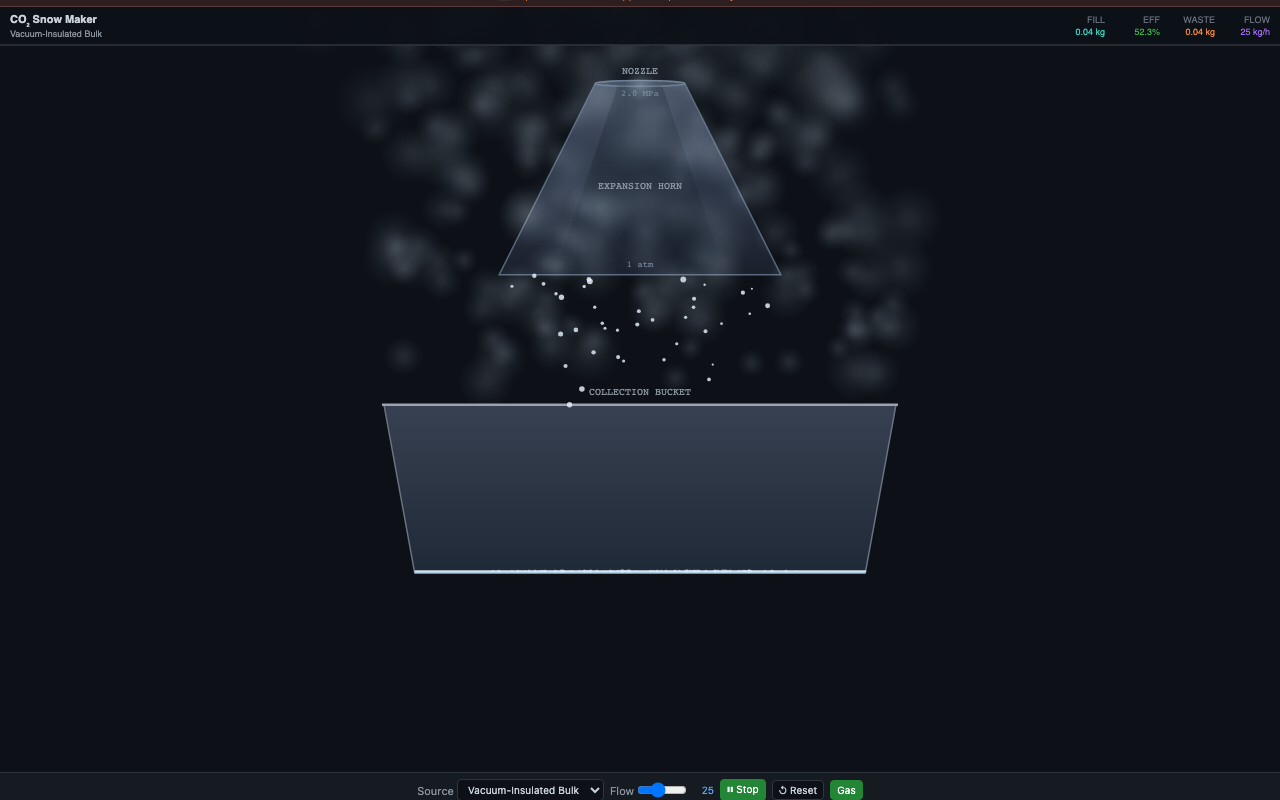
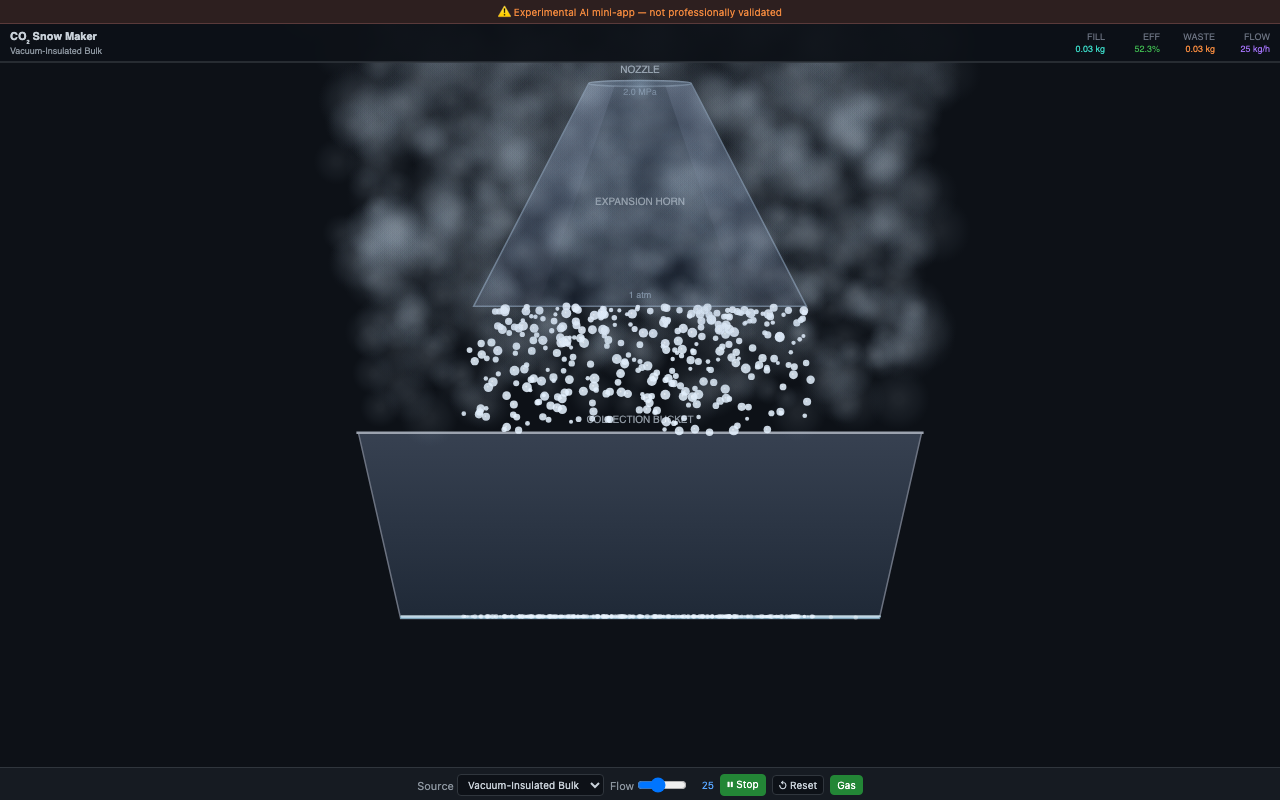
CO2 Snow Maker v3.0 — sharp text, visible controls, working gas plume, continuous snow, working reset/start

Changed region(s): [[0.0, 0.0, 1.0, 0.7812], [0.3125, 0.9375, 0.6875, 1.0]]

diff --git a/app-gallery/apps/2026-05-02-co2-snow-maker/index.html b/app-gallery/apps/2026-05-02-co2-snow-maker/index.html
@@ -8,7 +8,7 @@
 *{box-sizing:border-box;margin:0;padding:0}
 html,body{width:100%;height:100%;overflow:hidden;background:#0d1117;color:#c9d1d9;font-family:-apple-system,BlinkMacSystemFont,'Segoe UI',Roboto,sans-serif;font-size:13px}
 #warn{background:#2d1f1f;border-bottom:1px solid #5a3a3a;padding:3px 8px;font-size:10px;color:#f0883e;text-align:center;flex-shrink:0}
-#app{display:flex;flex-direction:column;height:100vh}
+#app{display:flex;flex-direction:column;height:calc(100vh - 22px)}
 #canvas-wrap{flex:1;position:relative;min-height:0;overflow:hidden}
 canvas{display:block;width:100%;height:100%}
 #controls{flex-shrink:0;background:#161b22;border-top:1px solid #30363d;padding:6px 8px;display:flex;gap:6px;align-items:center;flex-wrap:wrap;justify-content:center;font-size:11px}
@@ -70,11 +70,12 @@ let snowP=[], gasP=[];
 
 function resize(){
   const r=canvas.getBoundingClientRect();
-  W=canvas.width=r.width;
-  H=canvas.height=r.height;
+  const dpr=window.devicePixelRatio||1;
+  W=canvas.width=r.width*dpr;
+  H=canvas.height=r.height*dpr;
+  ctx.setTransform(dpr,0,0,dpr,0,0);
 }
 
-  // Spawn snow from the BOTTOM EDGE of the horn
 function spawnSnow(){
   const cx=W/2, hb=H*.38;
   const nb=W*.13;
@@ -90,12 +91,12 @@ function spawnSnow(){
   });
 }
 
-// Spawn gas from the ENTIRE gap between horn bottom and bucket rim
 function spawnGas(){
-  if(!showGas)return;
+  if(!showGas) return;
   const cx=W/2, hb=H*.38;
   const gapTop=hb;
   const gapBot=H*.55;
+  const gapH=gapBot-gapTop;
   const bw=W*.44;
   for(let k=0;k<4;k++){
     gasP.push({
@@ -110,20 +111,18 @@ function spawnGas(){
 }
 
 function update(dt){
-  if(!running)return;
+  if(!running) return;
   const f=flow/3600;
   buckKg+=f*sc.eff*dt;
   wasteKg+=f*(1-sc.eff)*dt;
   t+=dt;
 
-  // Continuous spawn — MUCH higher rate
   const snowRate=flow*2.5;
   for(let i=0;i<3;i++){
     if(Math.random()<snowRate*dt) spawnSnow();
   }
   if(Math.random()<snowRate*0.8*dt) spawnGas();
 
-  // Bucket geometry
   const cx=W/2;
   const bw=W*.44;
   const bx=cx-bw/2;
@@ -132,7 +131,6 @@ function update(dt){
   const bB=by+bh;
   const wallSlope=(bw*.075)/bh;
 
-  // Snow physics
   for(let p of snowP){
     if(p.settled) continue;
 
@@ -140,21 +138,17 @@ function update(dt){
     p.y+=p.vy*dt;
     p.vy+=40*dt;
 
-    // Current bucket width at this Y
     const dy=Math.max(0,p.y-by);
     const innerL=bx+dy*wallSlope;
     const innerR=bx+bw-dy*wallSlope;
 
     if(p.y>=by && p.x>innerL && p.x<innerR){
-      // Inside bucket
       if(!p.inB){
         p.inB=true;
         p.vx*=0.05;
         p.vy*=0.02;
       }
       if(p.y>=bB-3){
-        // Hit bottom — settle with random offset within bucket width at bottom
-        const bottomW=bw*(1-0.06*2); // width at bottom after taper
         p.y=bB-2;
         p.vy=0; p.vx=0;
         p.settled=true;
@@ -166,14 +160,12 @@ function update(dt){
     if(!p.inB && !p.settled) p.life-=dt*.02;
   }
 
-  // Keep settled, remove dead
   snowP=snowP.filter(p=>p.life>0||p.settled);
   const settled=snowP.filter(p=>p.settled);
   if(settled.length>300){
     snowP=snowP.filter(p=>!p.settled).concat(settled.slice(-300));
   }
 
-  // Gas physics
   for(let p of gasP){
     p.y+=p.vy*dt;
     p.x+=p.vx*dt+Math.sin(p.ph+t*3)*10*dt;
@@ -184,18 +176,20 @@ function update(dt){
 }
 
 function draw(){
-  ctx.fillStyle='#0d1117';
-  ctx.fillRect(0,0,W,H);
+  const cssW=canvas.width/(window.devicePixelRatio||1);
+  const cssH=canvas.height/(window.devicePixelRatio||1);
 
-  const cx=W/2;
+  ctx.fillStyle='#0d1117';
+  ctx.fillRect(0,0,cssW,cssH);
+
+  const cx=cssW/2;
 
   // ── HORN ──
-  const nt=W*.04;  // top half-width
-  const nb=W*.13;  // bottom half-width
-  const hy=H*.08;  // top Y
-  const hb=H*.38;  // bottom Y
+  const nt=cssW*.04;
+  const nb=cssW*.13;
+  const hy=cssH*.08;
+  const hb=cssH*.38;
 
-  // Horn body
   const hGrad=ctx.createLinearGradient(cx,hy,cx,hb);
   hGrad.addColorStop(0,'#4a5568');
   hGrad.addColorStop(.5,'#2d3748');
@@ -207,38 +201,35 @@ function draw(){
   ctx.fillStyle=hGrad; ctx.fill();
   ctx.strokeStyle='#5a6a7e'; ctx.lineWidth=1.5; ctx.stroke();
 
-  // Horn top
   ctx.beginPath();
   ctx.ellipse(cx,hy,nt,3,0,0,Math.PI*2);
   ctx.fillStyle='#3d4a5c'; ctx.fill();
   ctx.strokeStyle='#6a7a8e'; ctx.stroke();
 
-  // Inner shadow
   ctx.beginPath();
   ctx.moveTo(cx-nt*.5,hy+3); ctx.lineTo(cx-nb*.6,hb-3);
   ctx.lineTo(cx+nb*.6,hb-3); ctx.lineTo(cx+nt*.5,hy+3);
   ctx.closePath();
   ctx.fillStyle='rgba(20,30,40,0.3)'; ctx.fill();
 
-  // Horn labels
-  ctx.fillStyle='#8b949e'; ctx.font='10px monospace'; ctx.textAlign='center';
+  // Horn labels - smooth text
+  ctx.fillStyle='#8b949e'; ctx.font='10px sans-serif'; ctx.textAlign='center';
   ctx.fillText('NOZZLE',cx,hy-10);
-  ctx.fillStyle='#6a7a8e'; ctx.font='9px monospace';
+  ctx.fillStyle='#6a7a8e'; ctx.font='9px sans-serif';
   ctx.fillText(sc.P.toFixed(1)+' MPa',cx,hy+12);
-  ctx.fillStyle='#8b949e'; ctx.font='10px monospace';
+  ctx.fillStyle='#8b949e'; ctx.font='10px sans-serif';
   ctx.fillText('EXPANSION HORN',cx,(hy+hb)*.5+10);
-  ctx.fillStyle='#6a7a8e'; ctx.font='9px monospace';
+  ctx.fillStyle='#6a7a8e'; ctx.font='9px sans-serif';
   ctx.fillText('1 atm',cx,hb-8);
 
   // ── BUCKET ──
-  const bw=W*.44;
+  const bw=cssW*.44;
   const bx=cx-bw/2;
-  const by=H*.55;
-  const bh=H*.25;
+  const by=cssH*.55;
+  const bh=cssH*.25;
   const bB=by+bh;
   const bBottomW=bw*.85;
 
-  // Bucket body (trapezoid matching the taper)
   ctx.beginPath();
   ctx.moveTo(bx,by);
   ctx.lineTo(cx-bBottomW/2,bB);
@@ -251,16 +242,14 @@ function draw(){
   ctx.fillStyle=bGrad; ctx.fill();
   ctx.strokeStyle='#6b7280'; ctx.lineWidth=1.5; ctx.stroke();
 
-  // Bucket rim
   ctx.beginPath();
   ctx.moveTo(bx-2,by); ctx.lineTo(bx+bw+2,by);
   ctx.strokeStyle='#9ca3af'; ctx.lineWidth=2.5; ctx.stroke();
 
-  // Bucket label
-  ctx.fillStyle='#8b949e'; ctx.font='10px monospace'; ctx.textAlign='center';
+  ctx.fillStyle='#8b949e'; ctx.font='10px sans-serif'; ctx.textAlign='center';
   ctx.fillText('COLLECTION BUCKET',cx,by-10);
 
-  // ── FALLING SNOW (before gas so visible through it) ──
+  // ── FALLING SNOW ──
   for(let p of snowP){
     if(!p.inB && !p.settled){
       ctx.beginPath(); ctx.arc(p.x,p.y,p.r,0,Math.PI*2);
@@ -272,7 +261,7 @@ function draw(){
     }
   }
 
-  // ── GAS (semi-transparent, on top of snow) ──
+  // ── GAS ──
   for(let p of gasP){
     const a=p.life;
     const gg=ctx.createRadialGradient(p.x,p.y,p.r*.15,p.x,p.y,p.r);
@@ -282,7 +271,7 @@ function draw(){
     ctx.beginPath(); ctx.arc(p.x,p.y,p.r,0,Math.PI*2); ctx.fillStyle=gg; ctx.fill();
   }
 
-  // ── SNOW PILE (solid fill, after gas so it sits on top) ──
+  // ── SNOW PILE ──
   const maxFill=2;
   const frac=Math.min(buckKg/maxFill,0.95);
   if(frac>0.01){
@@ -304,7 +293,6 @@ function draw(){
     ctx.fillStyle='#b8d4e8'; ctx.fill();
     ctx.strokeStyle='#7aa4b8'; ctx.lineWidth=1; ctx.stroke();
 
-    // Highlight
     ctx.beginPath();
     for(let i=0;i<=20;i++){
       const tt=i/20;
@@ -314,7 +302,6 @@ function draw(){
     }
     ctx.strokeStyle='rgba(255,255,255,0.5)'; ctx.lineWidth=1.5; ctx.stroke();
 
-    // Snow texture dots on pile
     for(let i=0;i<200*frac;i++){
       const tx=cx-bBottomW/2+Math.random()*bBottomW;
       const ty=snowY+Math.random()*snowH*.9;
@@ -323,11 +310,12 @@ function draw(){
     }
   }
 
-  // ── SETTLED SNOW PARTICLES (on top of pile, adding texture) ──
-  const settled=snowP.filter(p=>p.settled);
-  for(let p of settled){
-    ctx.beginPath(); ctx.arc(p.x,p.y,p.r*.5,0,Math.PI*2);
-    ctx.fillStyle='rgba(235,245,255,0.6)'; ctx.fill();
+  // ── SETTLED SNOW ──
+  for(let p of snowP){
+    if(p.settled){
+      ctx.beginPath(); ctx.arc(p.x,p.y,p.r*.5,0,Math.PI*2);
+      ctx.fillStyle='rgba(235,245,255,0.6)'; ctx.fill();
+    }
   }
 
   // Nozzle flash
@@ -338,20 +326,18 @@ function draw(){
     ctx.beginPath(); ctx.arc(cx,hy+2,16,0,Math.PI*2); ctx.fillStyle=fg; ctx.fill();
   }
 
-  // ── TOP STATS BAR (no overlap, clean separation) ──
+  // ── TOP STATS BAR ──
   const barH=38;
   ctx.fillStyle='rgba(13,17,23,0.95)';
-  ctx.fillRect(0,0,W,barH);
+  ctx.fillRect(0,0,cssW,barH);
   ctx.strokeStyle='#30363d';
-  ctx.beginPath(); ctx.moveTo(0,barH); ctx.lineTo(W,barH); ctx.stroke();
+  ctx.beginPath(); ctx.moveTo(0,barH); ctx.lineTo(cssW,barH); ctx.stroke();
 
-  // Title on the left
   ctx.fillStyle='#c9d1d9'; ctx.font='bold 11px sans-serif'; ctx.textAlign='left';
   ctx.fillText('CO₂ Snow Maker',10,16);
   ctx.fillStyle='#8b949e'; ctx.font='9px sans-serif';
   ctx.fillText(sc.name,10,30);
 
-  // Stats on the right
   const stats=[
     ['FILL', buckKg.toFixed(2)+' kg', '#39d2c0'],
     ['EFF', (sc.eff*100).toFixed(1)+'%', '#3fb950'],
@@ -359,14 +345,12 @@ function draw(){
     ['FLOW', flow+' kg/h', '#a371f7']
   ];
 
-  let statX=W-10;
+  let statX=cssW-10;
   ctx.font='9px sans-serif';
   for(let i=stats.length-1;i>=0;i--){
     const [l,v,c]=stats[i];
-    // Value
     ctx.fillStyle=c; ctx.textAlign='right';
     ctx.fillText(v,statX,28);
-    // Label
     ctx.fillStyle='#6b7280'; ctx.textAlign='right';
     ctx.fillText(l,statX,16);
     statX-=Math.max(55, ctx.measureText(v).width+12);
@@ -375,8 +359,8 @@ function draw(){
 
 let lastT=0;
 function loop(time){
-  if(!lastT)lastT=time;
-  const dt=Math.min((time-lastT)/1000,.05);
+  if(!lastT) lastT=time;
+  const dt=Math.min((time-lastT)/1000, .05);
   lastT=time;
   update(dt);
   draw();
@@ -404,6 +388,9 @@ document.getElementById('btnRun').addEventListener('click',function(){
 document.getElementById('btnReset').addEventListener('click',()=>{
   buckKg=0; wasteKg=0; t=0;
   snowP=[]; gasP=[];
+  running=false;
+  document.getElementById('btnRun').textContent='▶ Start';
+  document.getElementById('btnRun').classList.remove('on');
 });
 
 document.getElementById('togPlume').addEventListener('click',function(){
